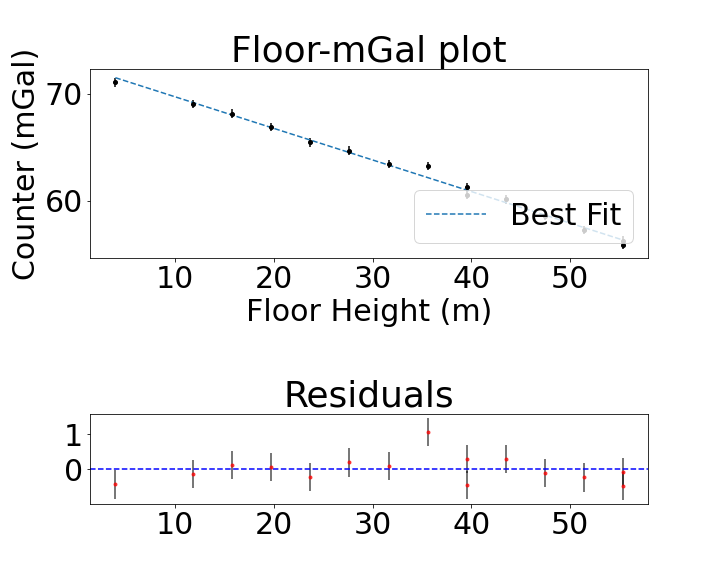
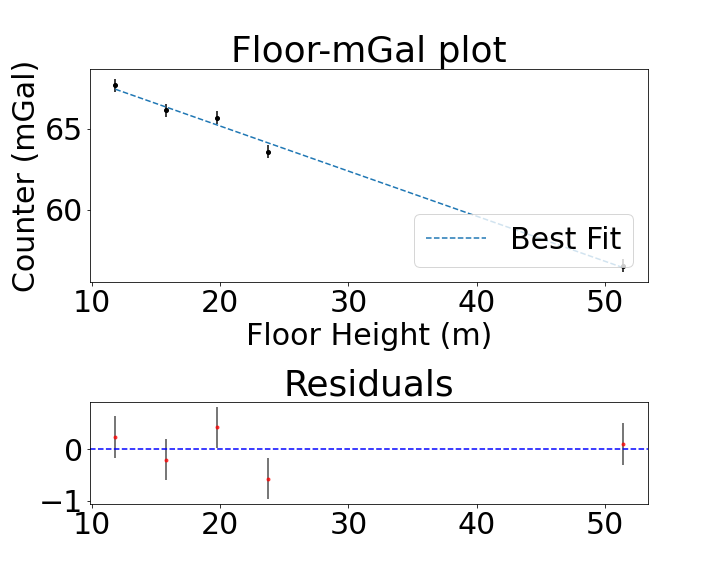
data updated again

diff --git a/RadiusEarth/toolkit.py b/RadiusEarth/toolkit.py
@@ -12,6 +12,11 @@ import matplotlib.pyplot as plt
 import matplotlib.gridspec as gridspec
 #from uncertainties import ufloat
 
+font = {'family' : 'DejaVu Sans',
+        'size'   : 30}
+
+plt.rc('font', **font)
+
 def curve_fit_data_dep(xdata, ydata, fit_type, override=False, 
                    override_params=(None,), uncertainty=None, 
                    res=False, chi=False):
@@ -114,7 +119,7 @@ def curve_fit_data_dep(xdata, ydata, fit_type, override=False,
     
 def curve_fit_data(xdata, ydata, fit_type, override=False, 
                    override_params=(None,), uncertainty=None, 
-                   res=False, chi=False):
+                   res=False, chi=False, uncertainty_x=None):
     
     def chi_sq_red(measured_data:list[float], expected_data:list[float], 
                uncertainty:list[float], v: int):
@@ -222,15 +227,16 @@ def curve_fit_data(xdata, ydata, fit_type, override=False,
     
     
 def quick_plot_residuals(xdata, ydata, plot_x, plot_y,
-                         residuals, meta=None, uncertainty=[], save=False):
+                         residuals, meta=None, uncertainty=[], save=False, 
+                         uncertainty_x=[]):
     """
     Relies on the python uncertainties package to function as normal, however,
     this can be overridden by providing a list for the uncertainties.
     """
-    fig = plt.figure(figsize=(10,8))
-    gs = gridspec.GridSpec(ncols=11, nrows=9, figure=fig)
+    fig = plt.figure(figsize=(14,10))
+    gs = gridspec.GridSpec(ncols=11, nrows=8, figure=fig)
     main_fig = fig.add_subplot(gs[:4,:])
-    res_fig = fig.add_subplot(gs[7:,:])
+    res_fig = fig.add_subplot(gs[6:,:])
     
     if type(uncertainty) is int:
         uncertainty = [uncertainty]*len(xdata)
@@ -238,32 +244,48 @@ def quick_plot_residuals(xdata, ydata, plot_x, plot_y,
     elif len(uncertainty) == 0:
         for y in ydata:
             uncertainty.append(y.std_dev)
+            
+    if type(uncertainty_x) is int:
+        uncertainty_x = [uncertainty_x]*len(xdata)
+        
+    elif len(uncertainty_x) == 0:
+        for x in xdata:
+            uncertainty_x.append(x.std_dev)
 
     if meta is None:
         meta = {'title' : 'INSERT-TITLE',
                 'xlabel' : 'INSERT-XLABEL',
                 'ylabel' : 'INSERT-YLABEL',
-                'chi_sq' : 0}
+                'chi_sq' : 0,
+                'fit-label': "Best Fit",
+                'data-label': "Data",
+                'save-name' : 'IMAGE',
+                'loc' : 'lower right'}
     #popt, pcov, new_xdata, new_ydata, chi_sq, residuals = curve_fit_data(
     #    angle_data, period_data, fit_type='log', 
     #    uncertainty=period_uncert, res=True, chi=True)                
 
-    main_fig.set_title(meta['title'])
-    main_fig.errorbar(xdata, ydata, yerr=uncertainty,
-                      markersize='4', fmt='o', color='black')
+    main_fig.set_title(meta['title'], fontsize = 46)
+    main_fig.errorbar(xdata, ydata, yerr=uncertainty, xerr=uncertainty_x,
+                      markersize='4', fmt='o', color='black', 
+                      label=meta['data-label'])
     main_fig.plot(plot_x, plot_y, linestyle='dashed',
-                  label=r'Best Fit')  #$\chi_{red}^2$=%1.2f'%meta['chi_sq'])
+                  label=meta['fit-label'])  #$\chi_{red}^2$=%1.2f'%meta['chi_sq'])
 
     main_fig.set_xlabel(meta['xlabel'])
     main_fig.set_ylabel(meta['ylabel'])
-    main_fig.legend(loc='lower right')
+    main_fig.legend(loc=meta['loc'])
+    
+    #fig.ylabel(meta['ylabel'])
+    #plt.ylabel(meta['ylabel'])
 
     res_fig.errorbar(xdata, residuals, markersize='3', color='red', fmt='o', 
+                     xerr=uncertainty_x,
                      yerr=uncertainty, ecolor='black', alpha=0.7)
     res_fig.axhline(y=0, linestyle='dashed', color='blue')
     res_fig.set_title('Residuals')
-    title = meta["title"]
-    plt.savefig('figures/'+title+'.png')
+    save_name = meta["save-name"]
+    plt.savefig(f'figures/{save_name}.png')
     
     #if save:
     #    fig.savefig(f'figures/{meta["title"]}.png')

diff --git a/RadiusEarth/main.py b/RadiusEarth/main.py
@@ -10,6 +10,7 @@ from units import unit
 import pandas as pd
 import matplotlib.pyplot as plt
 import matplotlib.gridspec as gridspec
+from uncertainties import ufloat
 
 import toolkit as tk
 
@@ -18,6 +19,9 @@ HUMAN_SCOPE_ERROR = 0.1 #cm
 
 HUMAN_SCOPE_ERROR_m = HUMAN_SCOPE_ERROR/100
 
+STEP = ufloat(0.177, 0.0005)
+
+FLOOR_HEIGHT_STEP = STEP*22
 
 FLOOR_HEIGHT = 3.95 # m
 COUNTER_CONST = 0.1005 # Miligals
@@ -25,7 +29,7 @@ COUNTER_CONST = 0.1005 # Miligals
 GRAV_CONST = 6.67e-11
 SUN_MASS = 2.0e30
 
-GRAVITY = 9.804253 # m/s
+GRAV_ACCEL = 9.804253 # m/s
 
 # Defining Units
 meter = unit('m')
@@ -39,45 +43,73 @@ def save_data(data, title):
 def load_data(sheet_name:str):
     df = pd.read_excel('data.xlsx', sheet_name=sheet_name)
     df['Counter(mGal)'] = df['Counter'].mul(COUNTER_CONST)
-    df['Height(m)'] = df['Floor'].mul(FLOOR_HEIGHT)
+    df['Height(m)'] = df['Floor'].mul(FLOOR_HEIGHT_STEP.n)
     
     return df
 
 
 def graph_data(df, expnum):
+    #height = ufloat(df['Height(m)'], FLOOR_HEIGHT_STEP.s)
     height = df['Height(m)']
     counter = df['Counter(mGal)']
     uncert = [4*COUNTER_CONST]*len(height)
+
+    uncert_x = [4*int(FLOOR_HEIGHT_STEP.s)]*len(height)
     
     #print(height, counter, uncert)
     data = tk.curve_fit_data(height, counter, 'linear-int', 
-                             uncertainty=uncert, chi=True, res=True)
+                             uncertainty=uncert, chi=True, res=True,
+                             uncertainty_x = uncert_x)
     
     #save_data(data, f'Plot for {weight} g (Exp: {exp_num})')
     
     meta = {'title' : f'Floor-mGal plot',
             'xlabel' : 'Floor Height (m)',
             'ylabel' : 'Counter (mGal)',
-            'chi_sq' : data['chi-sq']}
+            'chi_sq' : data['chi-sq'],
+            'data-label': 'data point',
+            'fit-label': '$g = \zeta h + g_0$',
+            'save-name': 'exp1_data.png',
+            'loc': 'lower left'}
     
     tk.quick_plot_residuals(height, counter, data['graph-horz'], 
                             data['graph-vert'],
-                            data['residuals'], meta, uncertainty=uncert)
+                            data['residuals'], meta, uncertainty=uncert, 
+                            uncertainty_x = uncert_x)
                             #save=True)
     
     print(meta['chi_sq'])
     
-    return (data['graph-horz'], data['graph-vert'], \
-            data['popt'], np.sqrt(np.diag(data['pcov'])))
+    data['pstd'] = np.sqrt(np.diag(data['pcov']))
+    
+    return data
 
+
+def calculate_radius_earth(gradient, grav = GRAV_ACCEL):
+    return (-2)*(grav)*(1/gradient)
+
+
+def convert_mGal(quantity):
+    return quantity*0.00001
+    
 
 if __name__ == '__main__':
+    print(FLOOR_HEIGHT_STEP, FLOOR_HEIGHT)
     
-    exp_plots = {}
-    df = load_data('Exp1')
-    graph_data(df, 1)
-    
-    df = load_data('Exp2')
-    graph_data(df, 2)
-    
+    for i in range(1, 5):
+        df = load_data(f'Exp{i}')
+        data = graph_data(df, 1)
+        #print(data['popt'])
+        grad, grav0 = data['popt']
+        grad = ufloat(grad, data['pstd'][0])
+        grad = convert_mGal(grad)
+        grav0 = convert_mGal(grav0)
+        
+        grav0 = ufloat(grav0, data['pstd'][1])
+        
+        R = calculate_radius_earth(grad)
+        
+        print(f'Radius of Earth {R}')
+        
+
     
